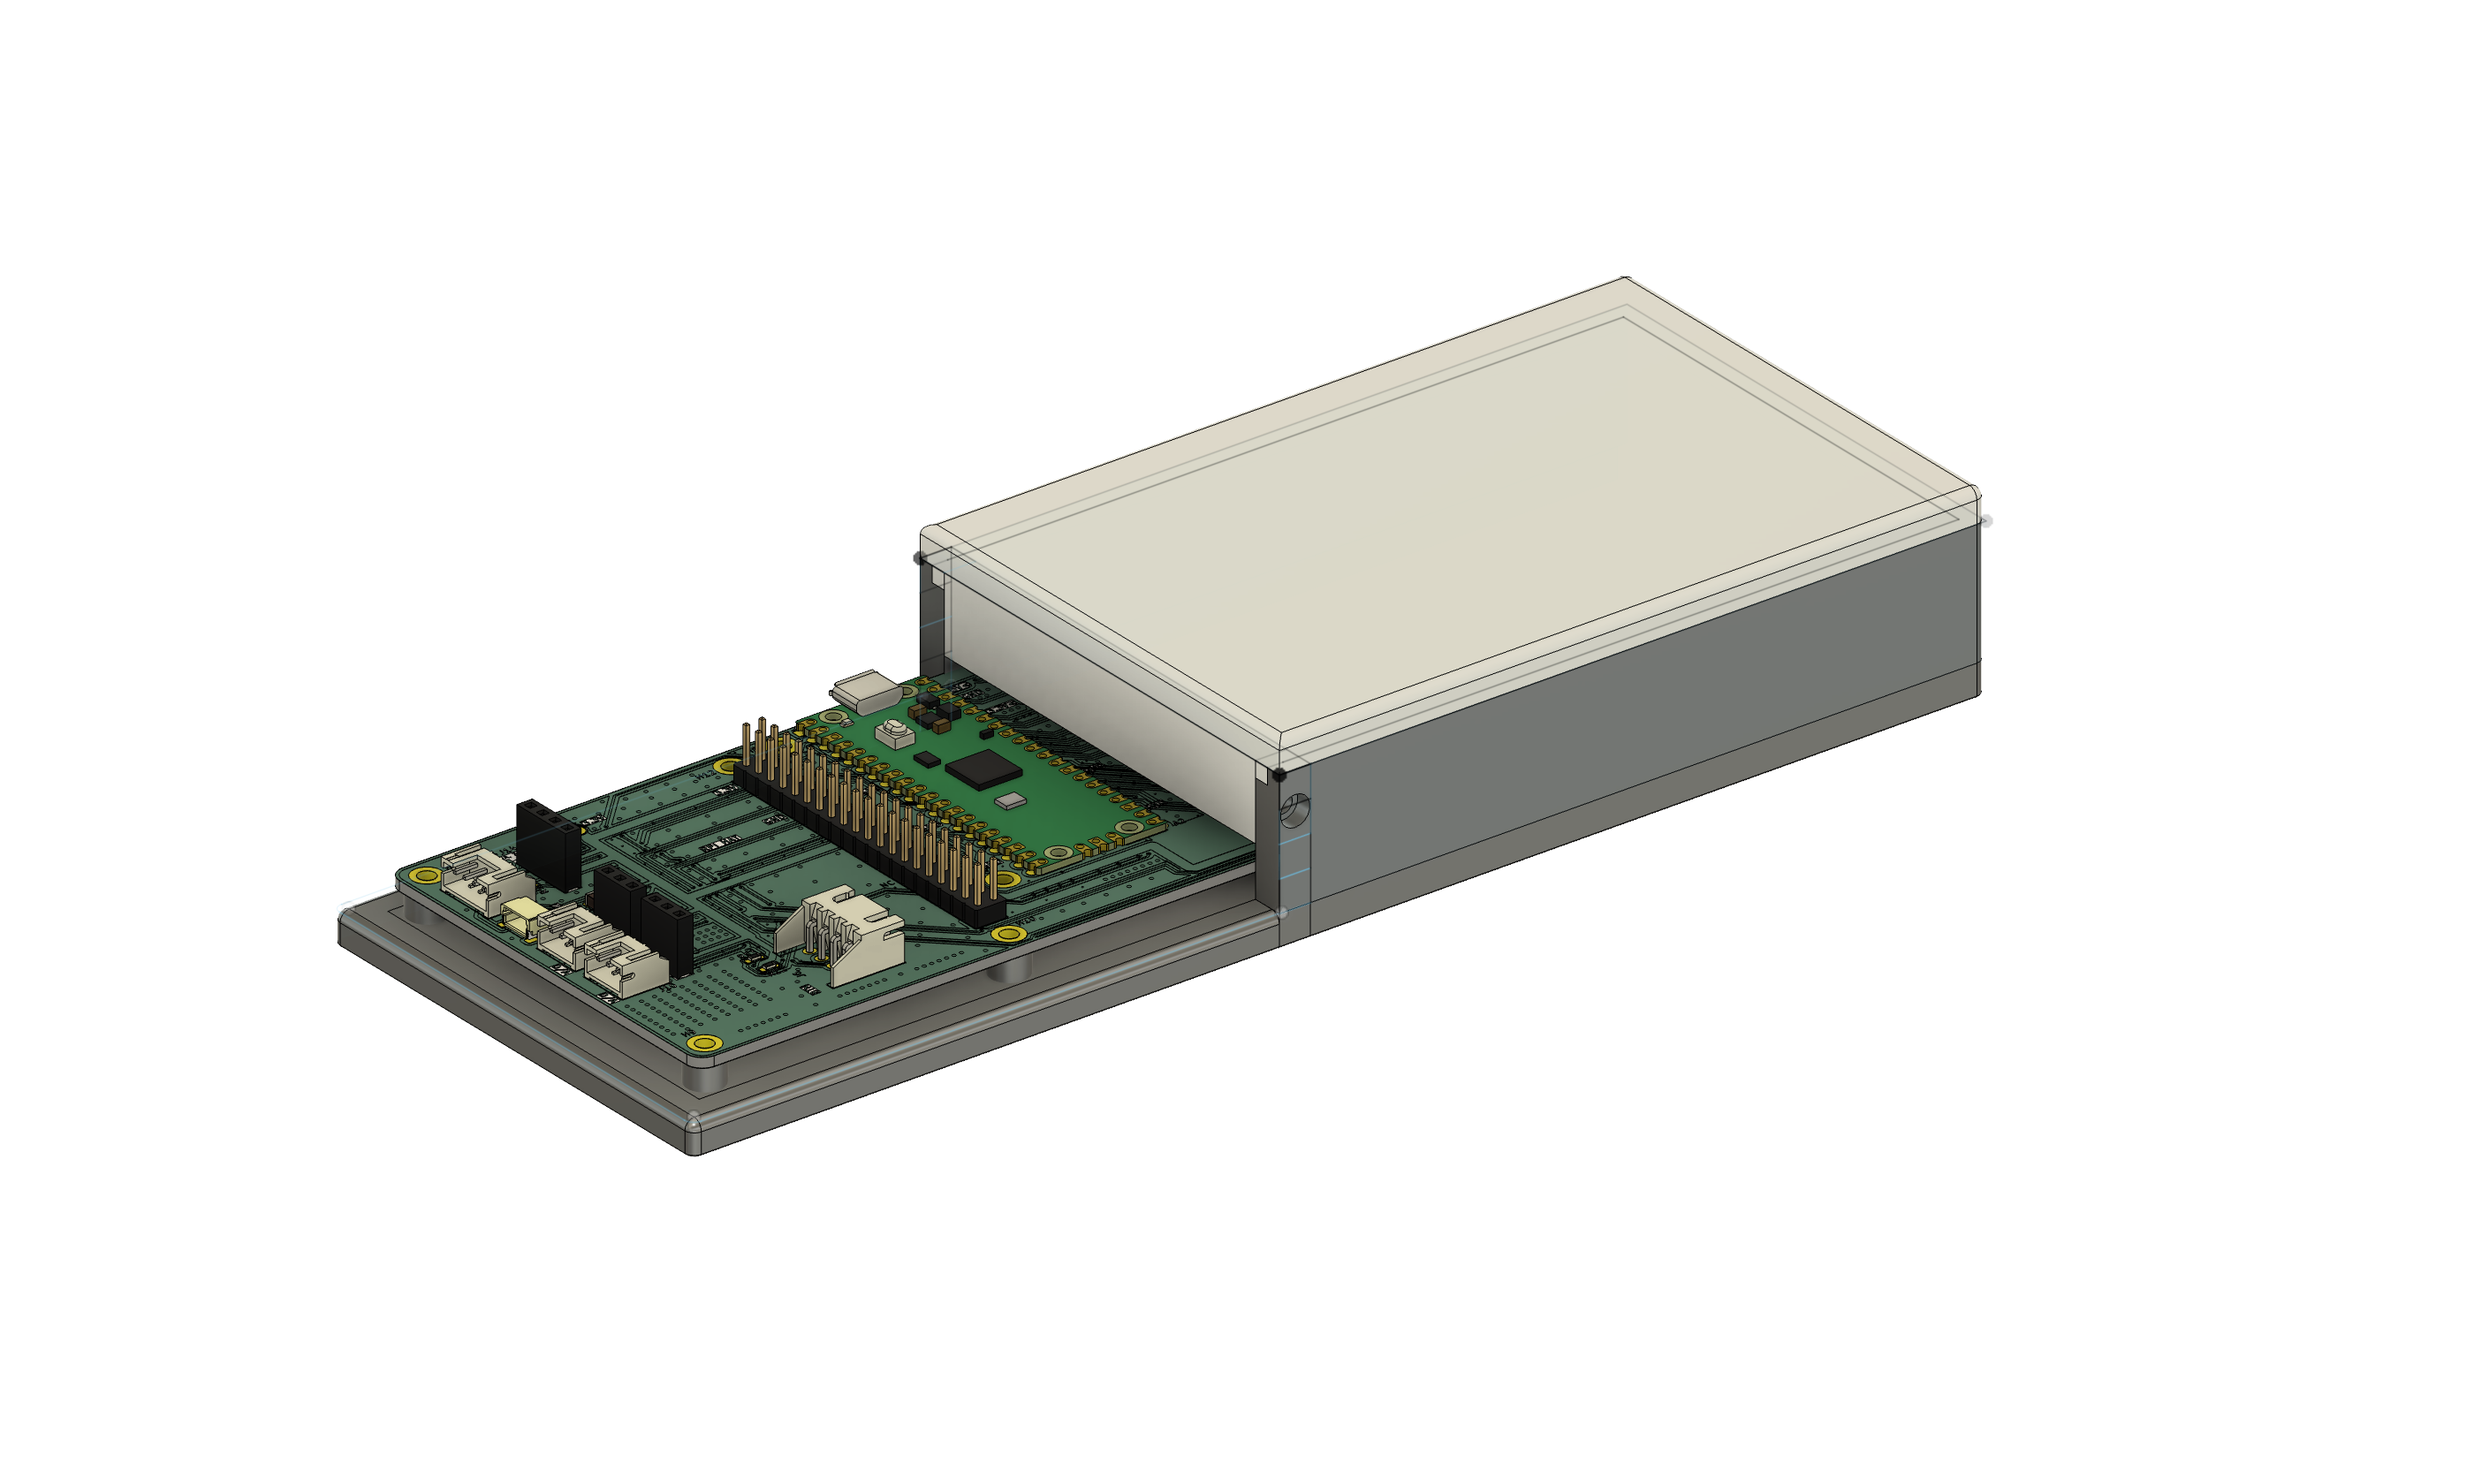
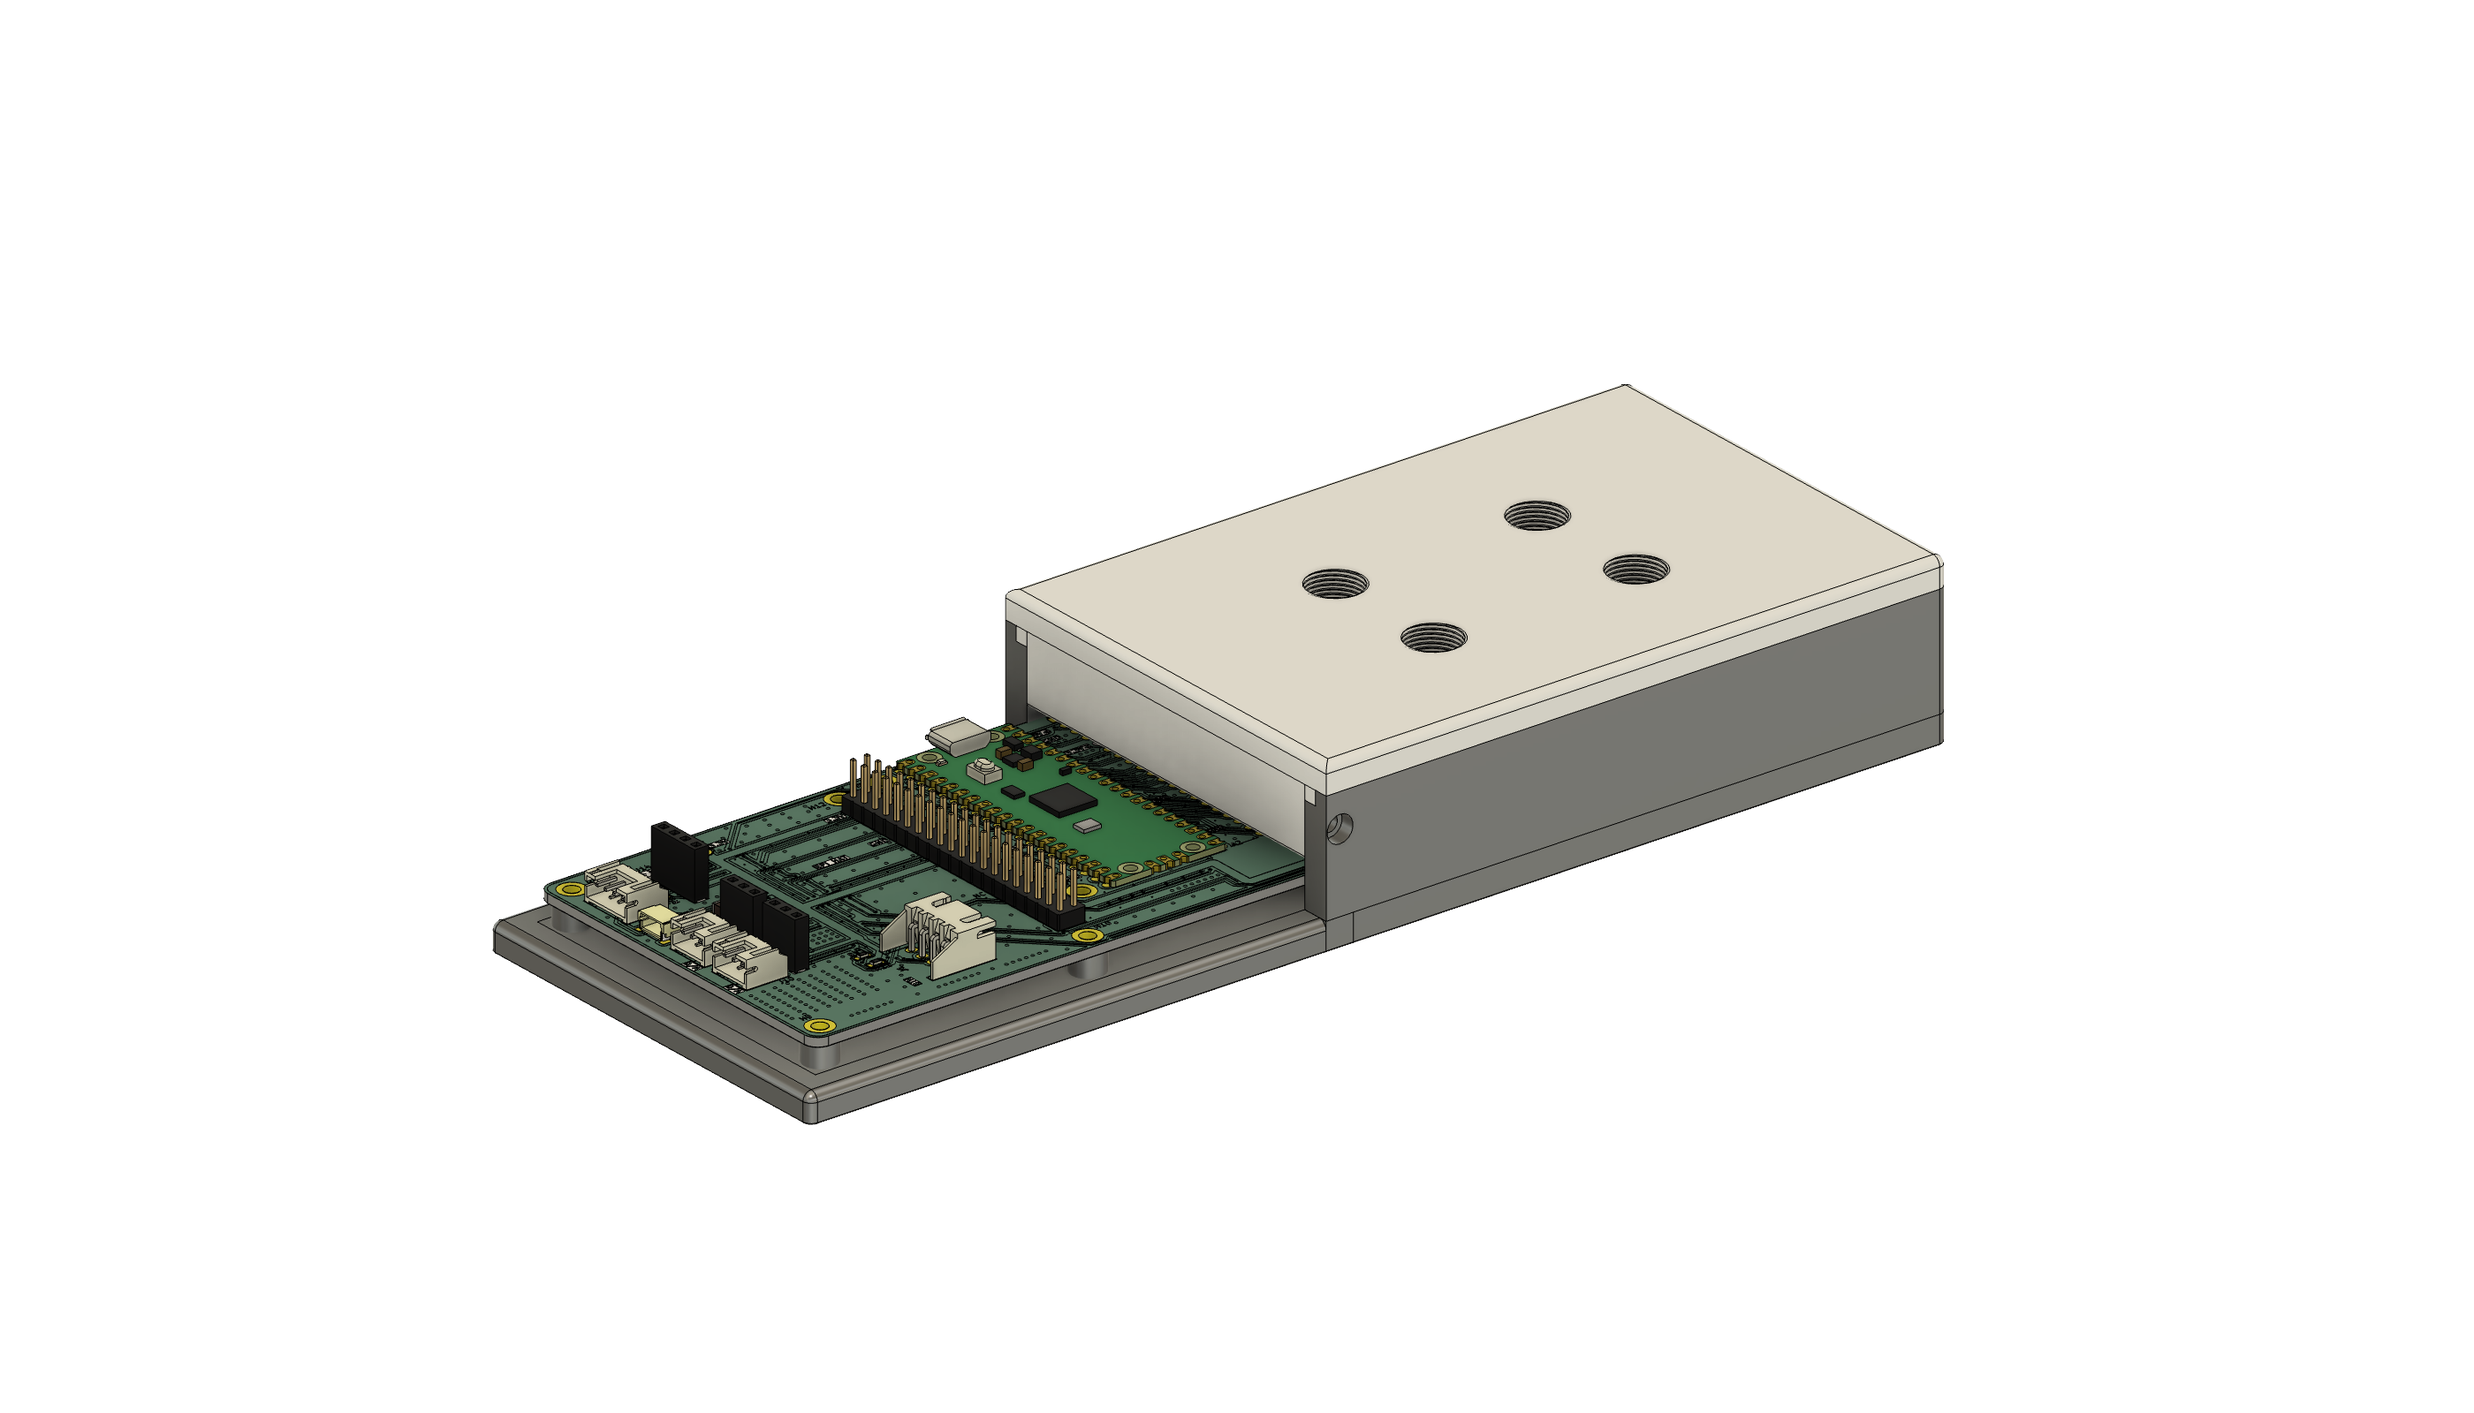
Added latest cad models with threading and update readme

Changed region(s): [[0.1243, 0.1875, 0.8079, 0.8125], [0.5904, 0.3438, 0.6525, 0.375], [0.5282, 0.4062, 0.5593, 0.4375]]

diff --git a/readme.md b/readme.md
@@ -81,6 +81,6 @@ Mouser components + shipping to United Kingdom is £24.41 or US$33.12
 
 Components in .xlsx are £43.17 or US$59.46
 
-3D Printed Casing is US$24.94 (£18.41) + at least US$16.10 (£11.88) shipping from PCBWay for a total of £30.29 and US$41.04
+3D Printed Casing is about US$24.94 (£18.41) + at least US$16.10 (£11.88) shipping from PCBWay for a total of £30.29 and US$41.04
 
 **Therefore the total cost is £97.87 and US$133.62.**
